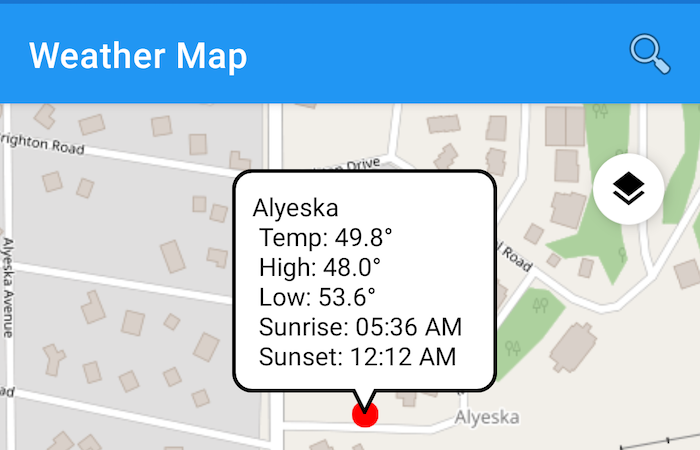
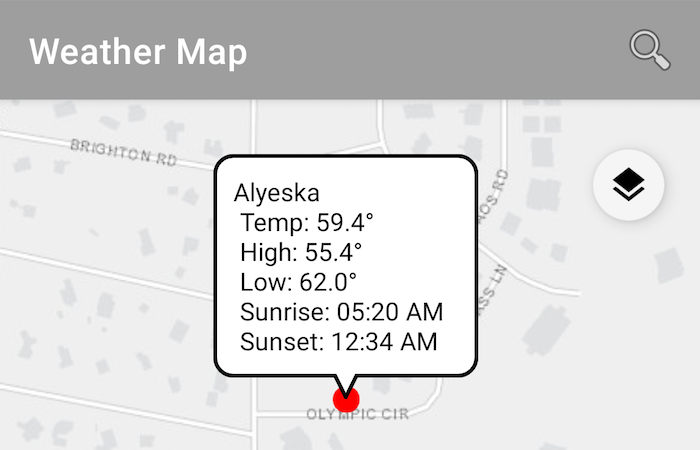
update look and feel

diff --git a/app/src/main/java/com/jdoneill/weathermap/view/MainActivity.kt b/app/src/main/java/com/jdoneill/weathermap/view/MainActivity.kt
@@ -68,7 +68,7 @@ class MainActivity : AppCompatActivity() {
 
         val extras = intent.extras
 
-        map = ArcGISMap(Basemap.createOpenStreetMap())
+        map = ArcGISMap(Basemap.createLightGrayCanvas())
         mapView.map = map
 
         viewModel = ViewModelProvider(this, MainViewModel.FACTORY(map)).get(MainViewModel::class.java)
